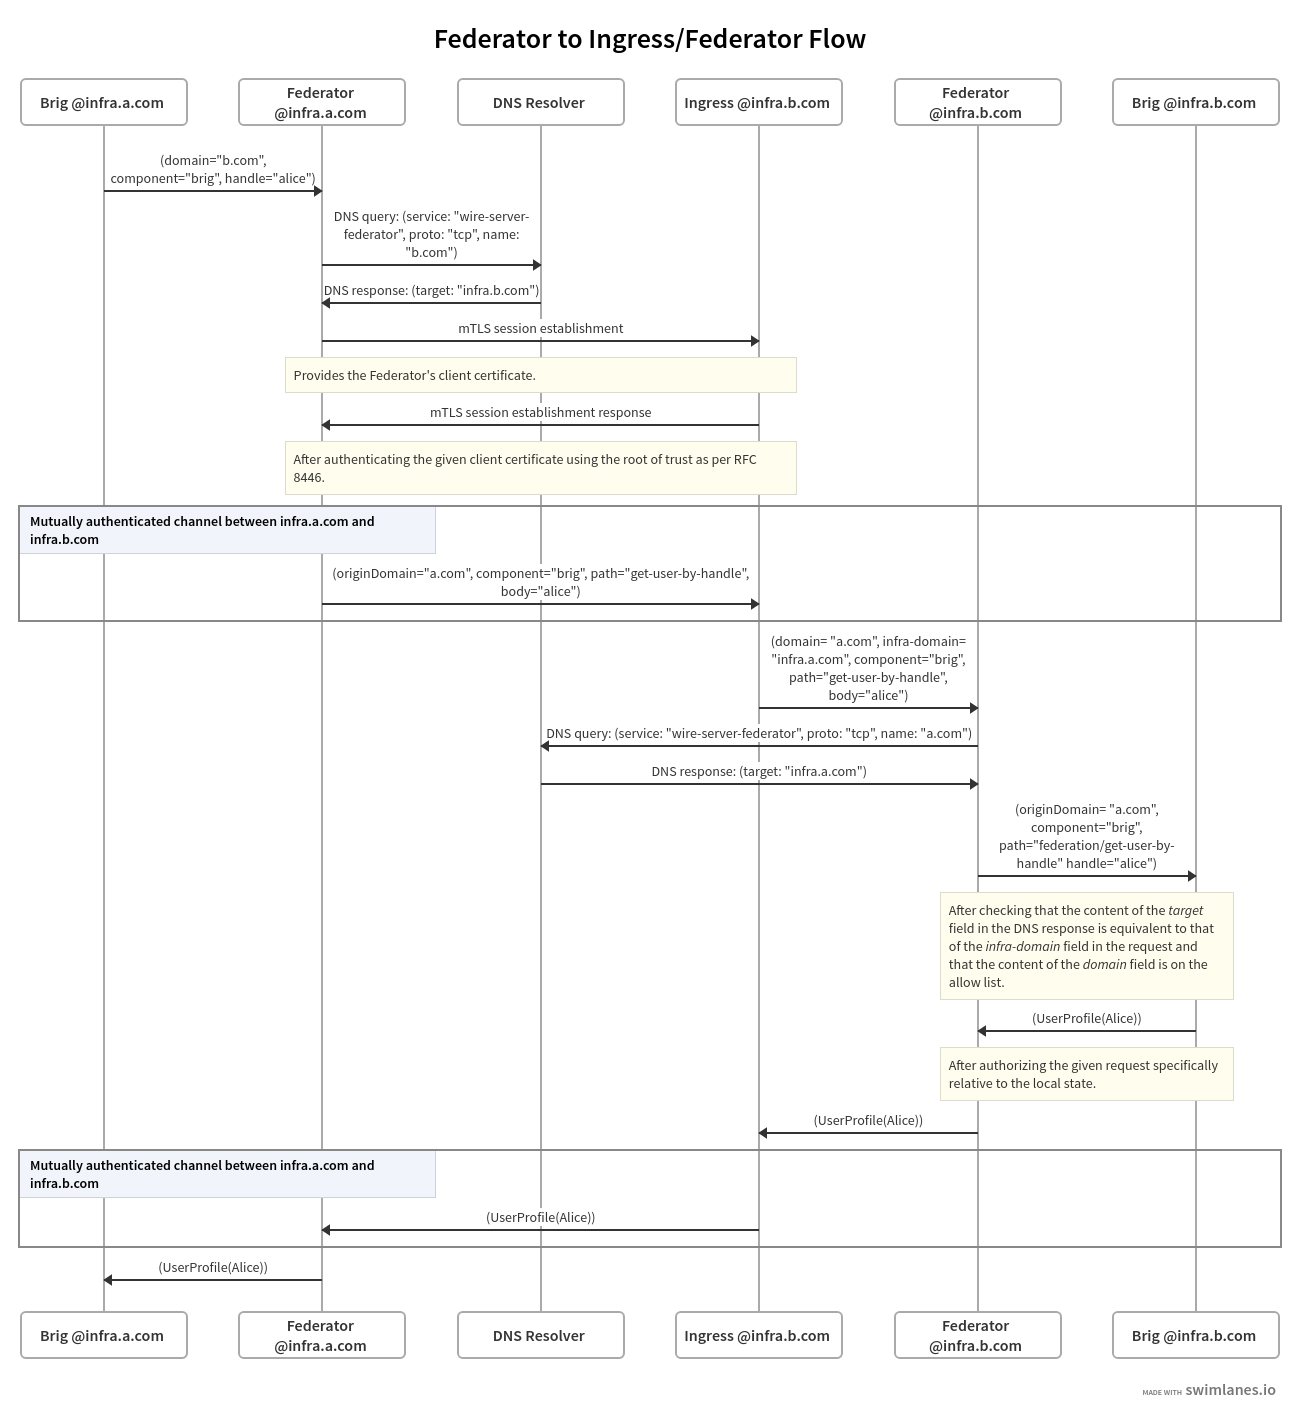
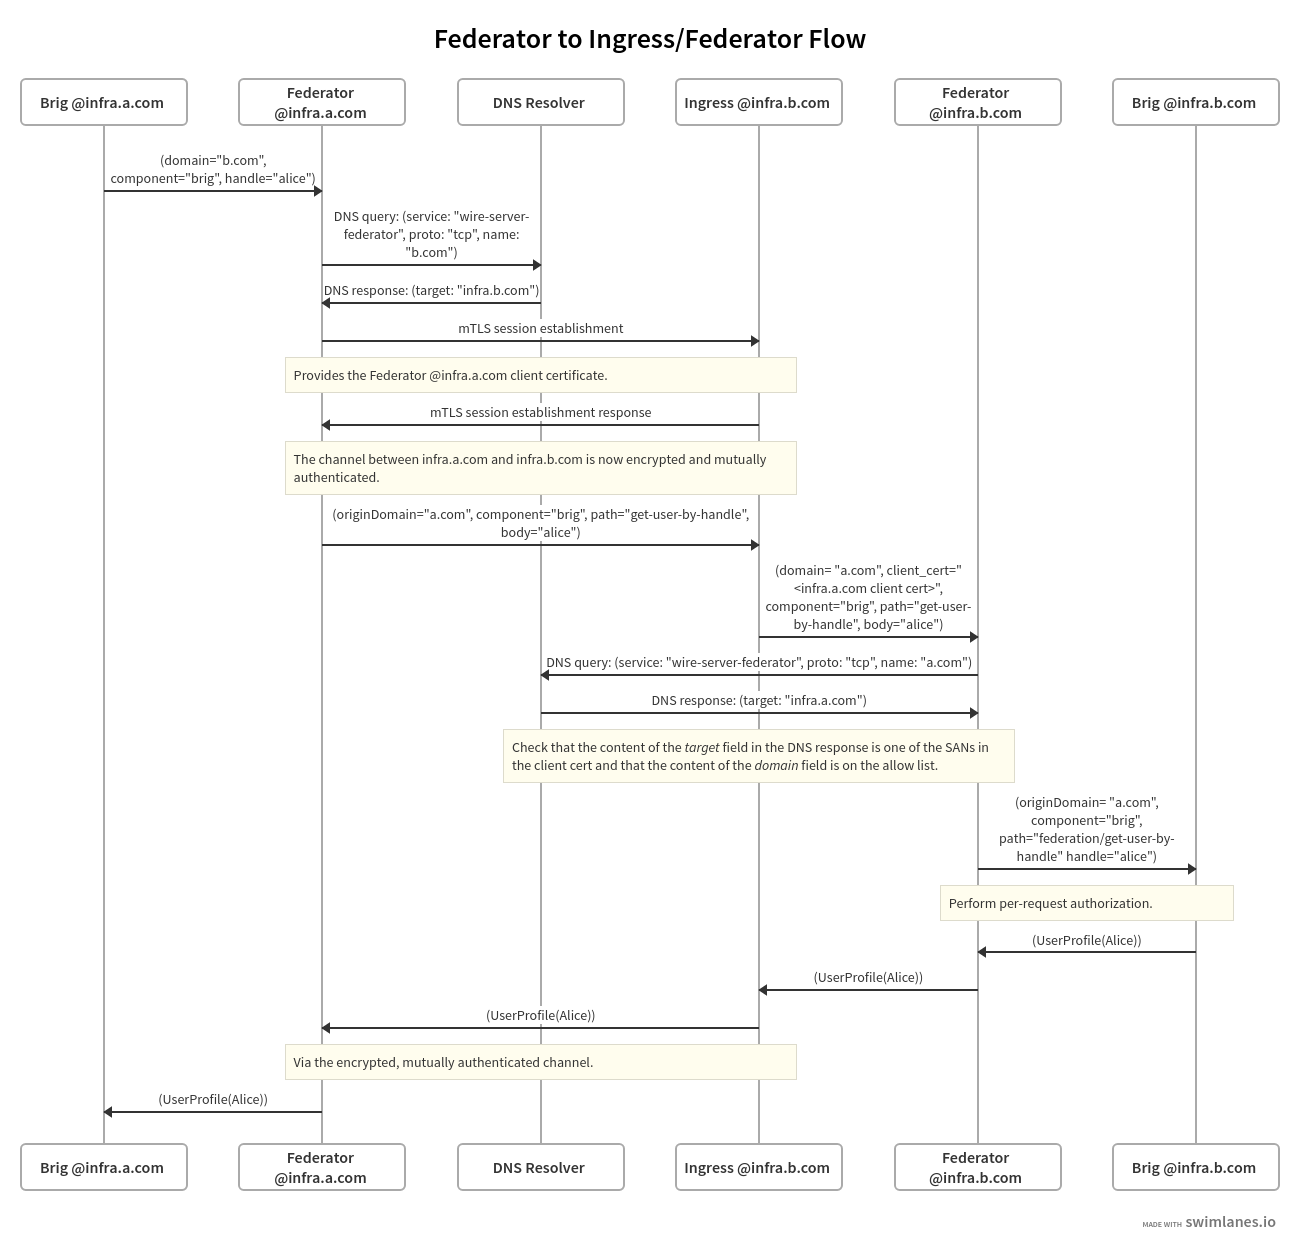
Further review feedback with editorial changes (#213)

diff --git a/src/understand/federation/architecture.rst b/src/understand/federation/architecture.rst
@@ -72,7 +72,9 @@ Its functions are:
 
   - perform mutual :ref:`authentication` as part of the TLS connection
     establishment
-* forward requests to the local :ref:`Federator <federator>` instance
+
+* forward requests to the local :ref:`Federator <federator>` instance, along
+  with the remote backend's client certificate
 
 
 .. _federator:
@@ -83,12 +85,13 @@ Federator
 .. warning:: As of July 2021, authentication is not fully implemented. See the
              section on :ref:`authentication` for more details.
 
-The `Federator` acts as egress point for other backend components. It can be
-configured to use an :ref:`allow list <allow-list>` to authorize incoming and
-outgoing connections, and it keeps an X.509 client certificate for the backend's
-infra domain to authenticate itself towards other backends. Additionally, it
-requires a connection to a DNS resolver to :ref:`discover<discovery>` other
-backends.
+The `Federator` performs additional authorization checks after receiving
+federated requests from the `Federation Ingress` and acts as egress point for
+other backend components. It can be configured to use an :ref:`allow list
+<allow-list>` to authorize incoming and outgoing connections, and it keeps an
+X.509 client certificate for the backend's infra domain to authenticate itself
+towards other backends. Additionally, it requires a connection to a DNS resolver
+to :ref:`discover<discovery>` other backends.
 
 When receiving a request from an internal component, the `Federator` will:
 
@@ -102,10 +105,13 @@ When receiving a request from an internal component, the `Federator` will:
 
 The `Federator` also implements the authorization logic for incoming requests and
 acts as intermediary between the `Federation Ingress` and the internal
-components. The 'Rederator' will, for incoming requests from other backends
+components. The `Federator` will, for incoming requests from remote backends
 (forwarded via the local :ref:`Federation Ingress <federation_ingress>`):
 
-#. Discover the backend domain claimed by the other backend,
+#. :ref:`Discover <discovery>` the mapping between backend domain claimed by the
+   remote backend and its infra domain,
+#. verify that the discovered infra domain matches the domain in the remote
+   backend's client certificate,
 #. if enabled, ensure that the backend domain of the other backend is in the
    :ref:`allow list <allow-list>`,
 #. normalize and sanitize the :ref:`path component <federator-component-api>` of
@@ -159,15 +165,14 @@ feature of TLS as defined in `RFC 8556 <https://tools.ietf.org/html/rfc8446>`_.
 
 In particular, this means that the ingress of each backend needs to be
 provisioned with one or more certificates which it trusts to authenticate
-certificates provided by other backends when accepting incoming connections from
-other backends.
+certificates provided by other backends when accepting incoming connections.
 
 Conversely, every `Federator` needs to be provisioned with a (client)
 certificate which it uses to authenticate itself towards other backends.
 
 Note that the client certificate is expected to be issued with the backend's
-infra domain as the subject alternative name (SAN), which is defined in `RFC
-5280 <https://tools.ietf.org/html/rfc5280>`_.
+infra domain as one of the subject alternative names (SAN), which is defined in
+`RFC 5280 <https://tools.ietf.org/html/rfc5280>`_.
 
 If a receiving backend fails to authenticate the client certificate, it should
 reply with an :ref:`authentication error <authentication error>`.
@@ -248,17 +253,18 @@ contains backend domains (which is not necessarily the same) the sending backend
 also needs to provide its backend domain.
 
 To make this possible, requests to remote backends are required to contain a
-`Wire-Domain` header, which contains the remote backend's domain.
+`Wire-Origin-Domain` header, which contains the remote backend's domain.
 
 While the receiving backend has authenticated the sending backend as the infra
 domain, it is not clear that the sending backend is indeed authorized by the
 owner of the backend domain to host the Wire backend of that particular domain.
 
 To perform this extra authorization step, the receiving backend follows the
-process described in :ref:`discovery` and compares the discovered infra domain
-for the backend domain indicated in the `Wire-Domain` header with the one the
-sending backend authenticated as. If there is a mismatch, the receiving backend
-replies with a :ref:`discovery error <discovery error>`.
+process described in :ref:`discovery` and checks that the discovered infra
+domain for the backend domain indicated in the `Wire-Domain` header is one of
+the Subject Alternative Names contained in the sending backend's client
+certificate. If this is not the case, the receiving backend replies with a
+:ref:`discovery error <discovery error>`.
 
 Finally, the receiving backend checks if the domain of the sending backend is in
 the :ref:`allow-list` and replies with an :ref:`authorization error
